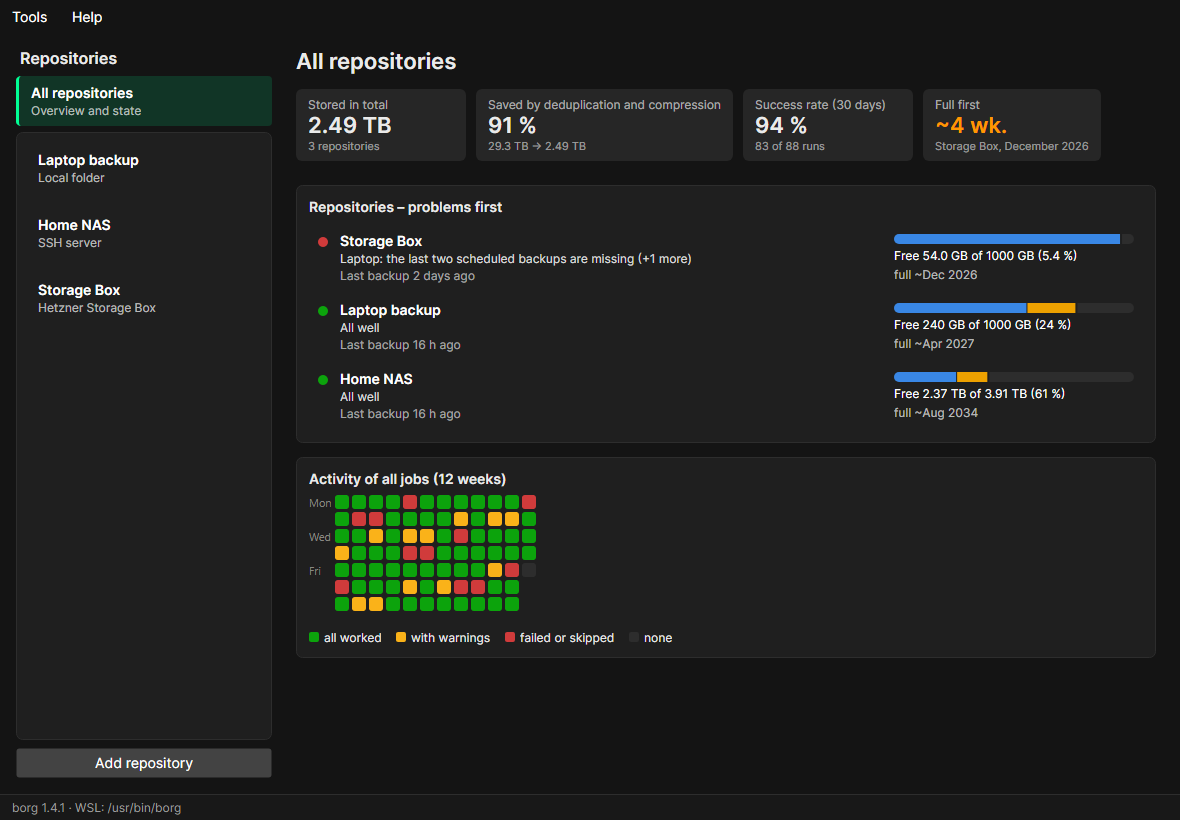
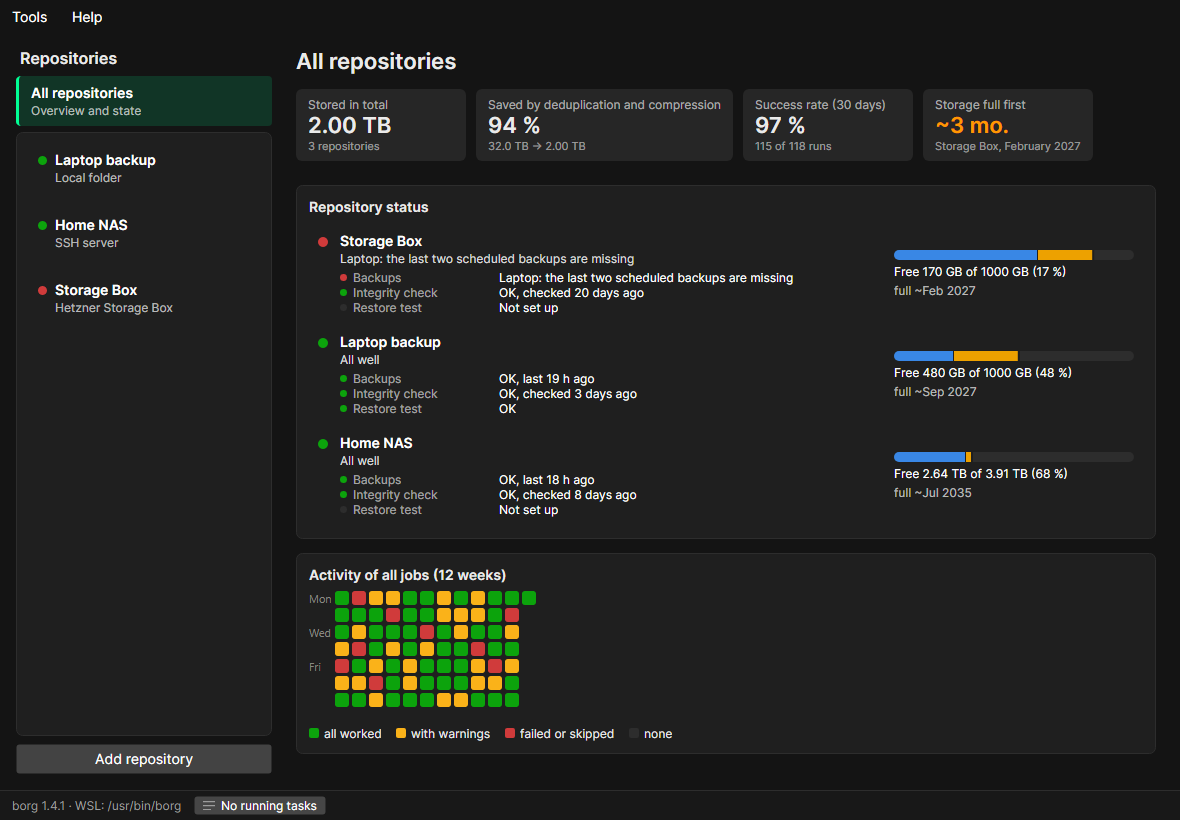
Show the features of 0.5.0 on the product page
New sections with their own screenshots: integrity checks and restore
tests, where backups can go (without the providers not tested yet),
comparing, managing and exporting archives, and the running tasks in
the status bar. The job section names minute and monthly schedules,
commands before and after, limits and run conditions; the USB example
uses the USB drive provider and backing up on attach; a new FAQ entry
lists the supported storage.

All screenshots are rendered anew from the current app, in English and
German.

diff --git a/site/index.html b/site/index.html
@@ -4,7 +4,7 @@
   <meta charset="utf-8">
   <meta name="viewport" content="width=device-width, initial-scale=1">
   <title>BorgStudio – BorgBackup without the command line</title>
-  <meta name="description" content="BorgStudio is a desktop app for BorgBackup: deduplicated, encrypted backups to a disk, your server or a Hetzner Storage Box – and every file back in a few clicks. Windows, macOS, Linux.">
+  <meta name="description" content="BorgStudio is a desktop app for BorgBackup: deduplicated, encrypted backups to a USB disk, your server or NAS, a Hetzner Storage Box or BorgBase – and every file back in a few clicks. Windows, macOS, Linux.">
   <link rel="canonical" href="https://borgstudio.cuban8io.net/">
   <link rel="alternate" hreflang="en" href="https://borgstudio.cuban8io.net/">
   <link rel="alternate" hreflang="de" href="https://borgstudio.cuban8io.net/de/">
@@ -53,7 +53,7 @@
       <div class="hero-text">
         <p class="badge"><span class="dot"></span> <span data-i18n="hero.badge">Version</span> <span class="js-version">–</span></p>
         <h1 data-i18n="hero.title">Backups you can trust.<br><span class="accent">Without the command line.</span></h1>
-        <p class="lead" data-i18n="hero.lead">BorgStudio is a desktop app for <a href="https://www.borgbackup.org/">BorgBackup</a>: deduplicated, encrypted backups to a disk, your own server or a Hetzner Storage Box – and every file back in a few clicks.</p>
+        <p class="lead" data-i18n="hero.lead">BorgStudio is a desktop app for <a href="https://www.borgbackup.org/">BorgBackup</a>: deduplicated, encrypted backups to a USB disk, your NAS or server, a Hetzner Storage Box or BorgBase – and every file back in a few clicks.</p>
         <div class="cta">
           <a class="button primary js-primary-download" href="#download" data-i18n="hero.download">Download</a>
           <a class="button" href="#examples" data-i18n="hero.examples">See examples</a>
@@ -91,7 +91,7 @@
         <article class="card">
           <div class="icon">⌂</div>
           <h3 data-i18n="adv.4.title">Your data stays yours</h3>
-          <p data-i18n="adv.4.text">No account, no cloud service of ours, no telemetry. Your backups go where you decide: a USB disk, your NAS, any SSH server or a Storage Box.</p>
+          <p data-i18n="adv.4.text">No account, no cloud service of ours, no telemetry. Your backups go where you decide: a USB disk, your NAS, any SSH or SFTP server, a Storage Box or BorgBase.</p>
         </article>
         <article class="card">
           <div class="icon">⧉</div>
@@ -115,15 +115,42 @@
       <div class="feature">
         <div class="feature-text">
           <h3 data-i18n="feat.1.title">Backup jobs – by hand or on a schedule</h3>
-          <p data-i18n="feat.1.text">Pick folders, leave out caches, build output and recycle bins with one click, choose the compression. Run a job with live progress, or let it run daily, on chosen weekdays or every few hours – through the system's task scheduler, or by BorgStudio itself in the notification area.</p>
+          <p data-i18n="feat.1.text">Pick folders – or a USB stick, recognized under any drive letter – leave out caches, build output and recycle bins with one click, choose the compression. Run a job with live progress, or let it run every few minutes or hours, daily, on chosen weekdays or monthly – through the system's task scheduler, or by BorgStudio itself in the notification area.</p>
           <ul class="ticks">
             <li data-i18n="feat.1.a">Several jobs per repository, several schedules per job</li>
             <li data-i18n="feat.1.b">Old archives cleaned up automatically (daily, weekly, monthly …)</li>
             <li data-i18n="feat.1.c">Missed times are made up for once the computer is back</li>
-            <li data-i18n="feat.1.d">Files that could not be read are listed, not hidden</li>
+            <li data-i18n="feat.1.d">Commands before and after, an upload limit, and conditions such as mains power or a cable connection</li>
+            <li data-i18n="feat.1.e">Files that could not be read are listed, not hidden</li>
           </ul>
         </div>
         <img class="shot" data-shot="job-editor" src="images/en/job-editor.png" width="640" height="1020" alt="The backup job editor with its schedules" loading="lazy">
+      </div>
+
+      <div class="feature reverse">
+        <div class="feature-text">
+          <h3 data-i18n="feat.9.title">Backups you can count on – checked and restored on trial</h3>
+          <p data-i18n="feat.9.text">A backup is only as good as its restore. BorgStudio checks each repository's integrity with borg check – by hand, after backups or on a schedule, also thoroughly down to every byte – and restores a sample of files on trial to compare them with the originals.</p>
+          <ul class="ticks">
+            <li data-i18n="feat.9.a">Integrity check and restore test per repository and job, with their history</li>
+            <li data-i18n="feat.9.b">Marks in the archive list: checked, restore test OK</li>
+            <li data-i18n="feat.9.c">A lock left behind by a crashed run can be released safely</li>
+          </ul>
+        </div>
+        <img class="shot" data-shot="main-overview" src="images/en/main-overview.png" width="1180" height="760" alt="A repository with its storage and its last integrity check" loading="lazy">
+      </div>
+
+      <div class="feature">
+        <div class="feature-text">
+          <h3 data-i18n="feat.10.title">Back up where you like</h3>
+          <p data-i18n="feat.10.text">A folder or an external drive, a USB stick that is found again under any drive letter, your own server or NAS over SSH, a server that only offers SFTP, a Hetzner Storage Box or BorgBase. BorgStudio sets up the login key for you and checks the server's fingerprint.</p>
+          <ul class="ticks">
+            <li data-i18n="feat.10.a">Back up automatically when the USB drive is attached</li>
+            <li data-i18n="feat.10.b">BorgBase: repository and key set up through its API</li>
+            <li data-i18n="feat.10.c">Existing borg repositories can be connected as they are</li>
+          </ul>
+        </div>
+        <img class="shot" data-shot="providers" src="images/en/providers.png" width="640" height="820" alt="Choosing where a new repository goes" loading="lazy">
       </div>
 
       <div class="feature reverse">
@@ -170,18 +197,44 @@
 
       <div class="feature reverse">
         <div class="feature-text">
+          <h3 data-i18n="feat.11.title">Compare, sort out, export</h3>
+          <p data-i18n="feat.11.text">What changed since yesterday? Compare two archives and see new, changed and deleted files. Rename archives, add a comment, keep one for good or delete it – and export an archive or a selection as zip or tar.</p>
+          <ul class="ticks">
+            <li data-i18n="feat.11.a">Filter by kind of change and search in the paths</li>
+            <li data-i18n="feat.11.b">Kept archives are left alone when cleaning up</li>
+            <li data-i18n="feat.11.c">Export as zip, tar, tar.gz or tar.zst</li>
+          </ul>
+        </div>
+        <img class="shot" data-shot="compare" src="images/en/compare.png" width="1000" height="640" alt="Comparing two archives" loading="lazy">
+      </div>
+
+      <div class="feature">
+        <div class="feature-text">
           <h3 data-i18n="feat.4.title">Restore safely</h3>
           <p data-i18n="feat.4.text">Into a folder of your choice or back to the original place. Before writing anything, BorgStudio checks what would be overwritten – and names files that changed after the backup.</p>
         </div>
         <img class="shot" data-shot="restore" src="images/en/restore.png" width="640" height="400" alt="The restore dialog" loading="lazy">
       </div>
 
-      <div class="feature">
+      <div class="feature reverse">
         <div class="feature-text">
           <h3 data-i18n="feat.5.title">Mount an archive as a folder</h3>
           <p data-i18n="feat.5.text">Need just one file? Mount the archive – or the whole repository – and open it in Explorer, Finder or your file manager. Read-only, so nothing can go wrong.</p>
         </div>
         <img class="shot" data-shot="mounts" src="images/en/mounts.png" width="1180" height="720" alt="Mounted archives in the status bar" loading="lazy">
+      </div>
+
+      <div class="feature">
+        <div class="feature-text">
+          <h3 data-i18n="feat.12.title">Always in view what is running</h3>
+          <p data-i18n="feat.12.text">The status bar shows what BorgStudio is working on and how long it will take: backups, checks, restores, exports and searches, queued runs and those started by the task scheduler. Each with its progress, a way to show it and, where possible, to cancel it.</p>
+          <ul class="ticks">
+            <li data-i18n="feat.12.a">Remaining time estimated from earlier runs</li>
+            <li data-i18n="feat.12.b">Runs held back by a condition, with the reason</li>
+            <li data-i18n="feat.12.c">Long work in its own window – the main window stays usable</li>
+          </ul>
+        </div>
+        <img class="shot" data-shot="tasks" src="images/en/tasks.png" width="1180" height="720" alt="The list of running tasks in the status bar" loading="lazy">
       </div>
 
       <div class="feature reverse">
@@ -214,9 +267,10 @@
           <p class="tag" data-i18n="ex.2.tag">Local copy</p>
           <h3 data-i18n="ex.2.title">Photos → USB disk</h3>
           <ol>
-            <li data-i18n="ex.2.a">Add a repository in a folder on the disk, e.g. <code>D:\Backups\borg</code>.</li>
+            <li data-i18n="ex.2.a">Add a repository, choose <em>USB or external drive</em> and a folder on the disk, e.g. <code>D:\Backups\borg</code> – found again under any drive letter.</li>
             <li data-i18n="ex.2.b">Create a job “Photos” with fast <code>lz4</code> compression – photos hardly compress anyway.</li>
             <li data-i18n="ex.2.c">Keep every archive: deduplication makes another backup of unchanged photos almost free.</li>
+            <li data-i18n="ex.2.d">Switch on <em>Back up when the drive is attached</em> – plugging it in is enough.</li>
           </ol>
         </article>
         <article class="example">
@@ -326,7 +380,11 @@
       </details>
       <details>
         <summary data-i18n="faq.5.q">Are scheduled backups possible?</summary>
-        <p data-i18n="faq.5.a">Yes. Each job can have several schedules – daily, on chosen weekdays or every few hours. The system's task scheduler starts them even while BorgStudio is closed, or BorgStudio runs them itself from the notification area. Missed times are made up for, and BorgStudio can tell you when something goes wrong.</p>
+        <p data-i18n="faq.5.a">Yes. Each job can have several schedules – every few minutes or hours, daily, on chosen weekdays or monthly. The system's task scheduler starts them even while BorgStudio is closed, or BorgStudio runs them itself from the notification area. Missed times are made up for, and BorgStudio can tell you when something goes wrong.</p>
+      </details>
+      <details>
+        <summary data-i18n="faq.8.q">Where can my backups be stored?</summary>
+        <p data-i18n="faq.8.a">In a local folder or on an external drive, on a USB stick or disk, on your own server or NAS over SSH, on a server that only offers SFTP, on a Hetzner Storage Box or at BorgBase. borg itself must run on the computer (on Windows inside WSL) and, for SSH, on the server – except for SFTP servers.</p>
       </details>
       <details>
         <summary data-i18n="faq.7.q">Is there a warranty?</summary>
